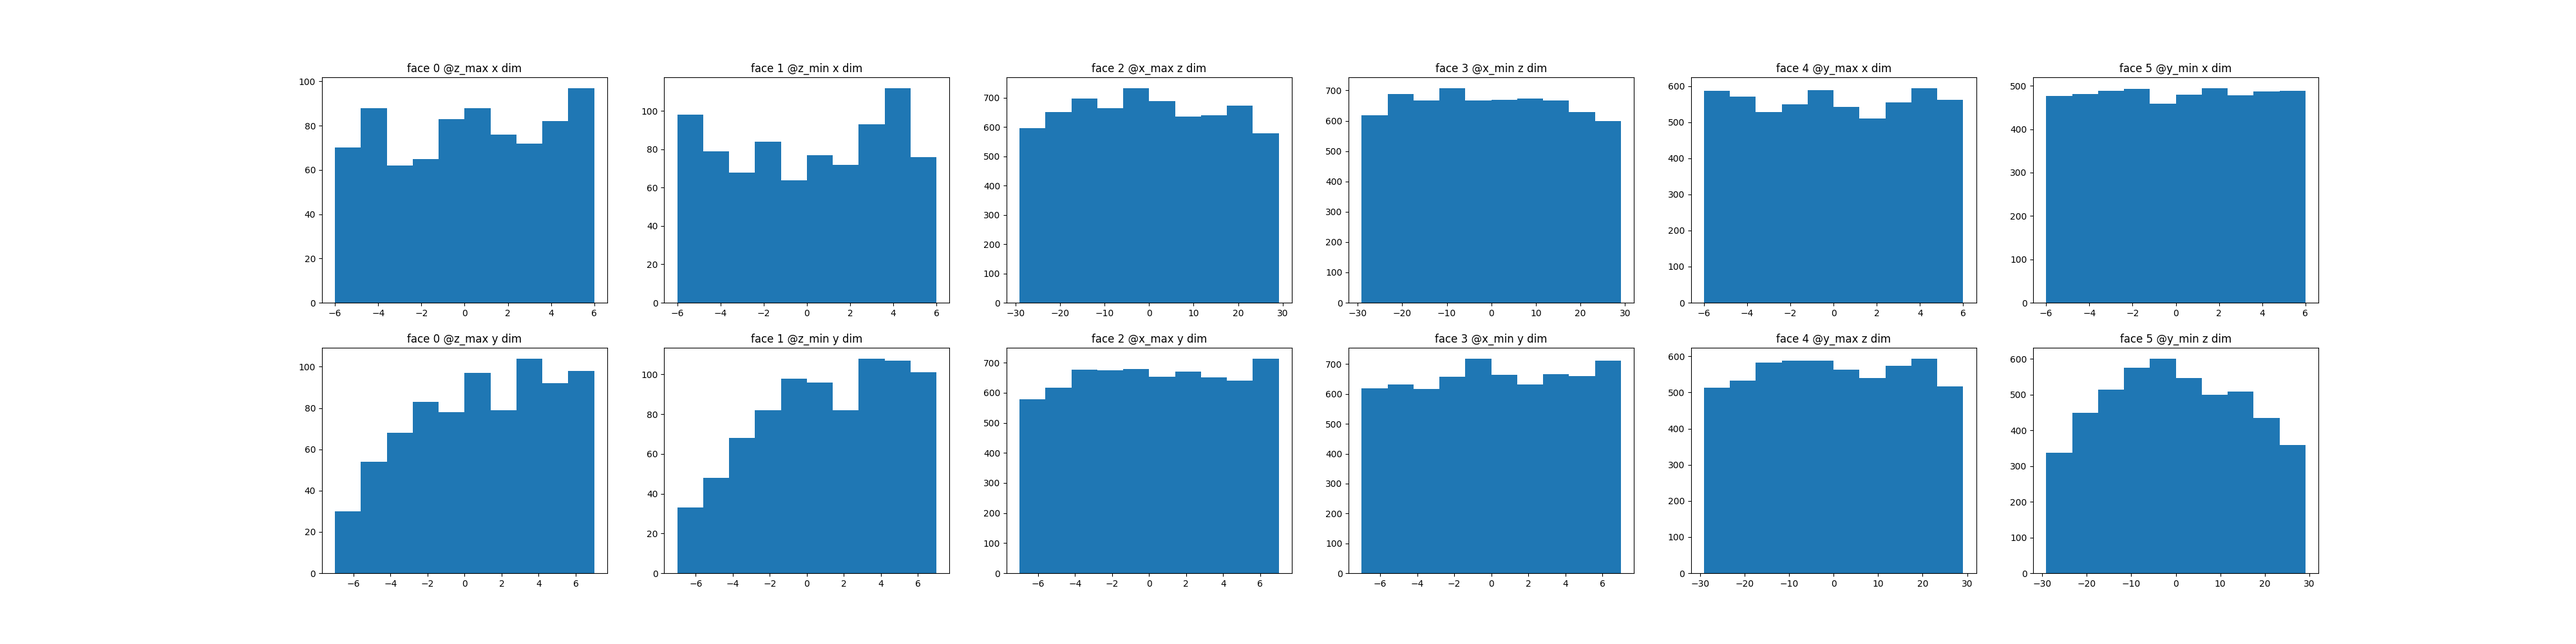
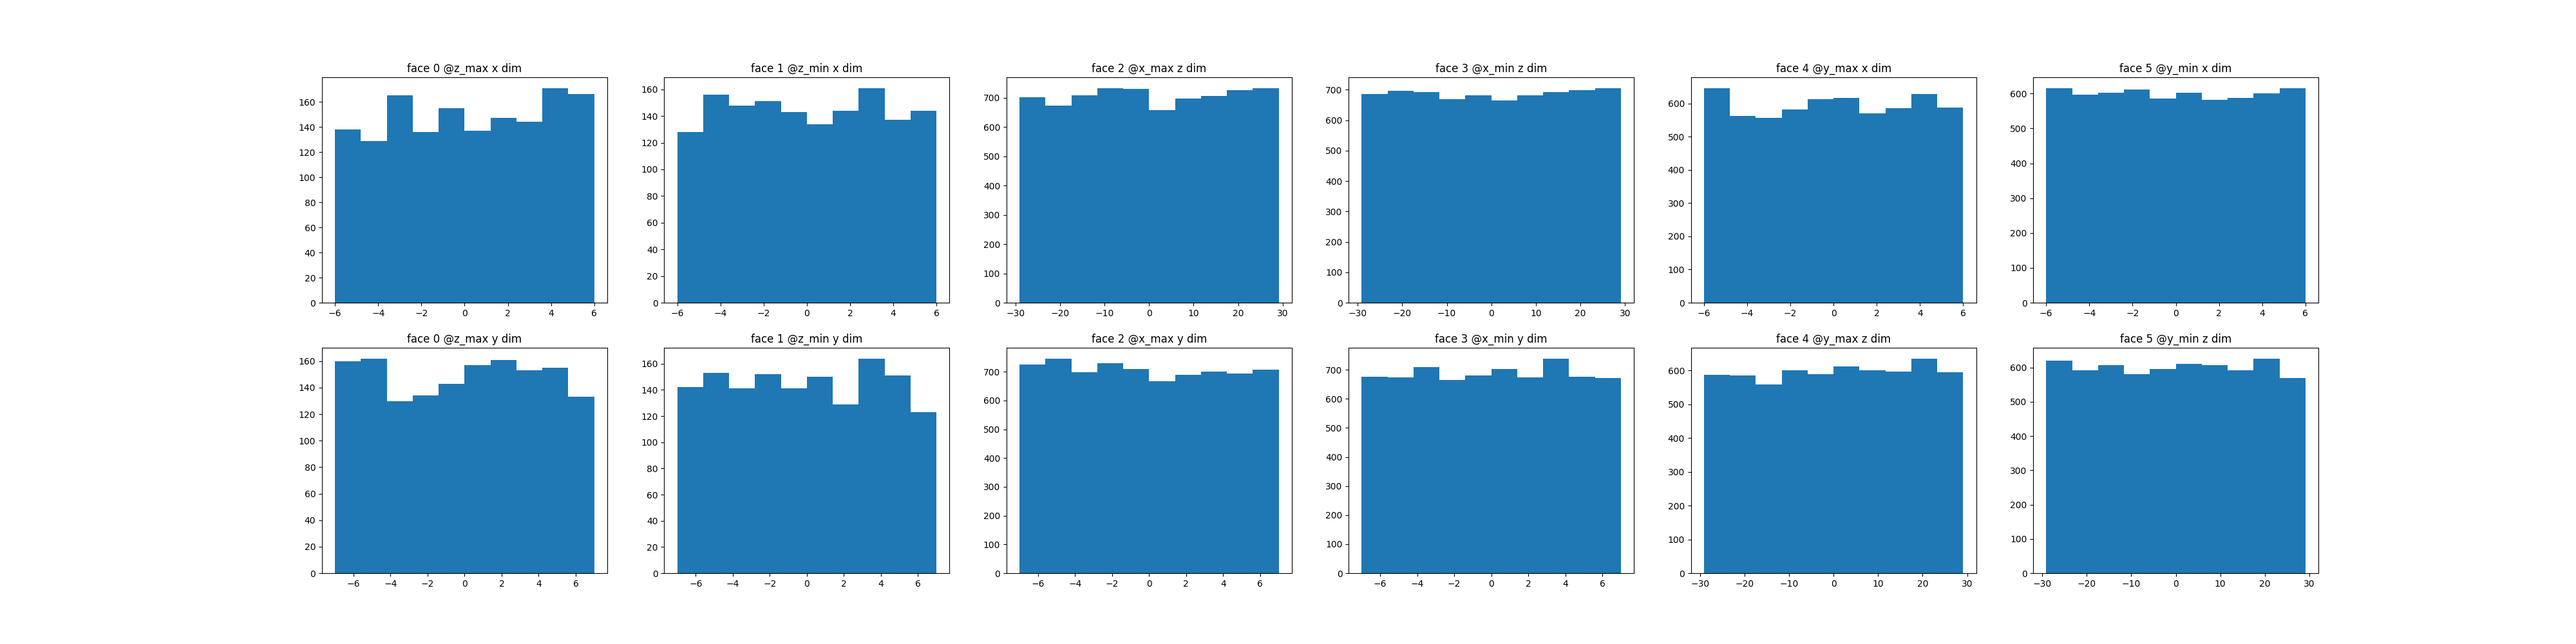
resolved issue between face0 x vs y and face 4 vs face 5

diff --git a/DM-trajectory.py b/DM-trajectory.py
@@ -95,7 +95,7 @@ for j in range(100000):
 
     # face 5 -> xz plane at y_min
     lambdas[5] = (y_min - disk.y) / orient[1]
-    faces.append(urm.TVector3(lambdas[5] * orient[0] + disk.x, y_min, lambdas[4] * orient[2] + disk.z))
+    faces.append(urm.TVector3(lambdas[5] * orient[0] + disk.x, y_min, lambdas[5] * orient[2] + disk.z))
 
     # check which (if any) points are valid points on the faces of the detector
     for i in range(6):
@@ -122,7 +122,7 @@ for j in range(100000):
 
     v = np.sqrt((v_x ** 2) + (v_y ** 2) + (v_z ** 2))
 
-    f_v = 3 * np.sqrt(6 / np.pi) * (1 / v_bar ** 3) * (v ** 2) * np.log((-3 * v ** 2) / (2 * v_bar ** 2))
+    # f_v = 3 * np.sqrt(6 / np.pi) * (1 / v_bar ** 3) * (v ** 2) * np.log((-3 * v ** 2) / (2 * v_bar ** 2))
 
 
 # -----------------------PLOT FUNCTIONS-----------------------------------
@@ -415,6 +415,6 @@ def costheta_phi_hist(cs, phis):
 # rotating_plot(entries, exits)
 # all_face_hex_dist_plot(entries, 'entry')
 # all_face_hex_dist_plot(exits, 'exit')
-# one_dim_hist_all_faces(entries, "entry")
-# one_dim_hist_all_faces(exits, "exit")
+one_dim_hist_all_faces(entries, "entry")
+one_dim_hist_all_faces(exits, "exit")
 # costheta_phi_hist(cs, phis)
